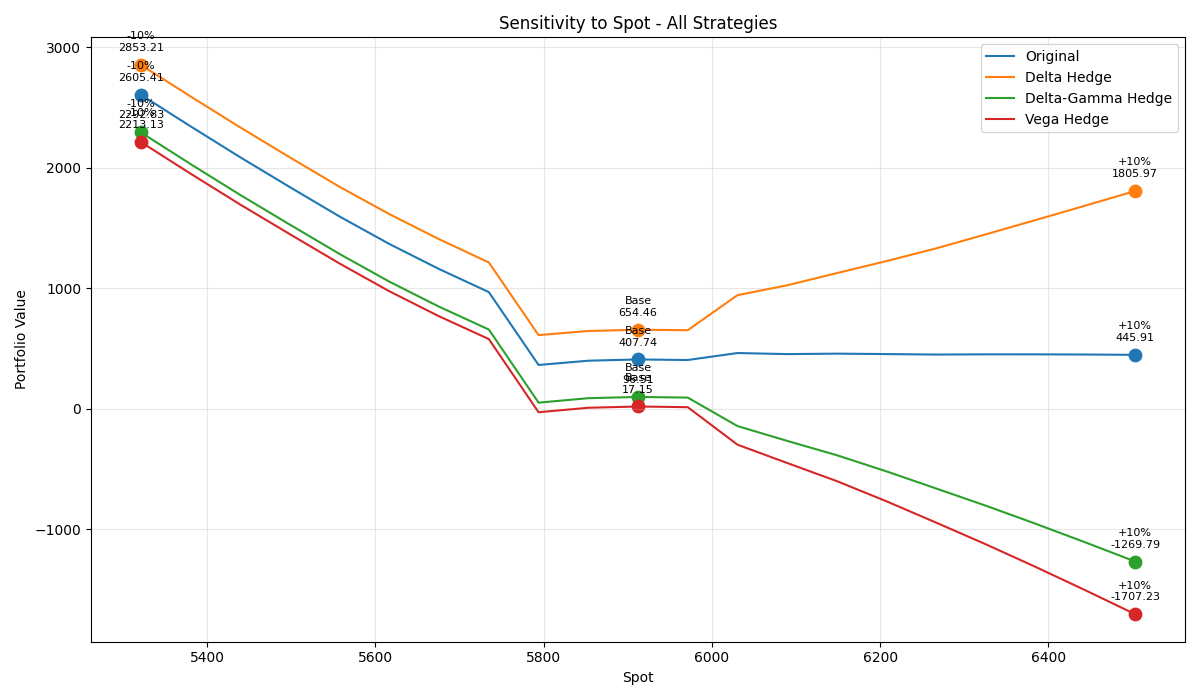
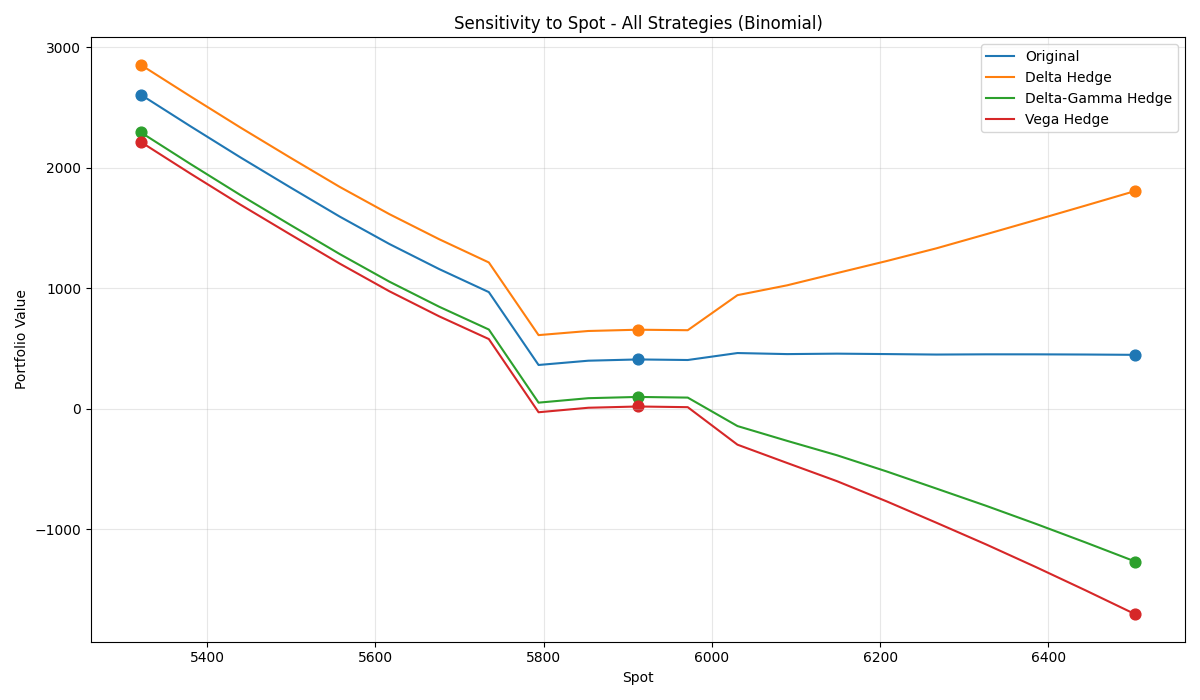
test

diff --git a/option_pricing/binomial_model/binomial_portfolio_analysis.py b/option_pricing/binomial_model/binomial_portfolio_analysis.py
@@ -185,6 +185,8 @@ def run_sensitivity_analysis_binomial(portfolio, N, vis_dir):
     spot_idx_base = 10
     spot_idx_high = 20
     plt.figure(figsize=(12,7))
+    plt.style.use('default')
+    plt.rcParams.update({'font.size': 10})
     spot_rows = []
     for name, port in hedge_strategies:
         values = []
@@ -194,6 +196,9 @@ def run_sensitivity_analysis_binomial(portfolio, N, vis_dir):
                 opt['S'] = S
             values.append(portfolio_value(port_mod, N))
         plt.plot(spot_range, values, label=name)
+        plt.scatter([spot_range[spot_idx_low], spot_range[spot_idx_base], spot_range[spot_idx_high]],
+                    [values[spot_idx_low], values[spot_idx_base], values[spot_idx_high]],
+                    marker='o', s=60)
         base = values[spot_idx_base]
         low = values[spot_idx_low]
         high = values[spot_idx_high]
@@ -211,7 +216,7 @@ def run_sensitivity_analysis_binomial(portfolio, N, vis_dir):
     df_spot.to_csv(os.path.join(vis_dir, 'sensitivity_spot_all.csv'), index=False)
     plt.xlabel('Spot')
     plt.ylabel('Portfolio Value')
-    plt.title('Sensitivity to Spot - All Strategies')
+    plt.title('Sensitivity to Spot - All Strategies (Binomial)')
     plt.legend()
     plt.grid(True, alpha=0.3)
     plt.tight_layout()
@@ -224,6 +229,8 @@ def run_sensitivity_analysis_binomial(portfolio, N, vis_dir):
     r_idx_base = 10
     r_idx_high = 20
     plt.figure(figsize=(12,7))
+    plt.style.use('default')
+    plt.rcParams.update({'font.size': 10})
     r_rows = []
     for name, port in hedge_strategies:
         values = []
@@ -233,6 +240,9 @@ def run_sensitivity_analysis_binomial(portfolio, N, vis_dir):
                 opt['r'] = r
             values.append(portfolio_value(port_mod, N))
         plt.plot(r_range, values, label=name)
+        plt.scatter([r_range[r_idx_low], r_range[r_idx_base], r_range[r_idx_high]],
+                    [values[r_idx_low], values[r_idx_base], values[r_idx_high]],
+                    marker='o', s=60)
         base = values[r_idx_base]
         low = values[r_idx_low]
         high = values[r_idx_high]
@@ -250,7 +260,7 @@ def run_sensitivity_analysis_binomial(portfolio, N, vis_dir):
     df_r.to_csv(os.path.join(vis_dir, 'sensitivity_r_all.csv'), index=False)
     plt.xlabel('Risk-free rate (r)')
     plt.ylabel('Portfolio Value')
-    plt.title('Sensitivity to r - All Strategies')
+    plt.title('Sensitivity to r - All Strategies (Binomial)')
     plt.legend()
     plt.grid(True, alpha=0.3)
     plt.tight_layout()
@@ -258,6 +268,8 @@ def run_sensitivity_analysis_binomial(portfolio, N, vis_dir):
     plt.close()
     # 3. Sensibilidad volatilidad (±20%)
     plt.figure(figsize=(12,7))
+    plt.style.use('default')
+    plt.rcParams.update({'font.size': 10})
     vol_base = 1.0
     vol_range = np.linspace(0.8, 1.2, 21)
     vol_idx_low = 0
@@ -269,12 +281,15 @@ def run_sensitivity_analysis_binomial(portfolio, N, vis_dir):
         for vol_mult in vol_range:
             port_mod = copy.deepcopy(port)
             for opt in port_mod:
-                iv = price_option(opt, N)[1]
+                iv = implied_volatility_option(opt['market_price'], opt['S'], opt['K'], opt['T'], opt['r'], opt['type'])
                 if iv is None:
                     iv = 0.2
                 opt['market_price'] = black_scholes_call_price(opt['S'], opt['K'], opt['T'], opt['r'], iv*vol_mult) if opt['type']=='call' else black_scholes_put_price(opt['S'], opt['K'], opt['T'], opt['r'], iv*vol_mult)
             values.append(portfolio_value(port_mod, N))
         plt.plot(vol_range, values, label=name)
+        plt.scatter([vol_range[vol_idx_low], vol_range[vol_idx_base], vol_range[vol_idx_high]],
+                    [values[vol_idx_low], values[vol_idx_base], values[vol_idx_high]],
+                    marker='o', s=60)
         base = values[vol_idx_base]
         low = values[vol_idx_low]
         high = values[vol_idx_high]
@@ -292,7 +307,7 @@ def run_sensitivity_analysis_binomial(portfolio, N, vis_dir):
     df_vol.to_csv(os.path.join(vis_dir, 'sensitivity_vol_all.csv'), index=False)
     plt.xlabel('Volatility multiplier')
     plt.ylabel('Portfolio Value')
-    plt.title('Sensitivity to Volatility - All Strategies')
+    plt.title('Sensitivity to Volatility - All Strategies (Binomial)')
     plt.legend()
     plt.grid(True, alpha=0.3)
     plt.tight_layout()
@@ -564,6 +579,8 @@ if __name__ == "__main__":
     spot_idx_base = 10
     spot_idx_high = 20
     plt.figure(figsize=(12,7))
+    plt.style.use('default')
+    plt.rcParams.update({'font.size': 10})
     print("\n=== Spot Sensitivity (±10%) ===")
     print(f"{'Strategy':<20}{'Base':>12}{'-10%':>12}{'+10%':>12}{'Δ-10%':>12}{'Δ+10%':>12}")
     spot_rows = []
@@ -577,9 +594,7 @@ if __name__ == "__main__":
         plt.plot(spot_range, values, label=name)
         plt.scatter([spot_range[spot_idx_low], spot_range[spot_idx_base], spot_range[spot_idx_high]],
                     [values[spot_idx_low], values[spot_idx_base], values[spot_idx_high]],
-                    marker='o', s=80)
-        for idx, label in zip([spot_idx_low, spot_idx_base, spot_idx_high], ['-10%', 'Base', '+10%']):
-            plt.annotate(f"{label}\n{values[idx]:.2f}", (spot_range[idx], values[idx]), textcoords="offset points", xytext=(0,10), ha='center', fontsize=8)
+                    marker='o', s=60)
         base = values[spot_idx_base]
         low = values[spot_idx_low]
         high = values[spot_idx_high]
@@ -598,7 +613,7 @@ if __name__ == "__main__":
     df_spot.to_csv(os.path.join(VIS_DIR, 'sensitivity_spot_all.csv'), index=False)
     plt.xlabel('Spot')
     plt.ylabel('Portfolio Value')
-    plt.title('Sensitivity to Spot - All Strategies')
+    plt.title('Sensitivity to Spot - All Strategies (Binomial)')
     plt.legend()
     plt.grid(True, alpha=0.3)
     plt.tight_layout()
@@ -612,6 +627,8 @@ if __name__ == "__main__":
     r_idx_base = 10
     r_idx_high = 20
     plt.figure(figsize=(12,7))
+    plt.style.use('default')
+    plt.rcParams.update({'font.size': 10})
     print("\n=== r Sensitivity (±1%) ===")
     print(f"{'Strategy':<20}{'Base':>12}{'-1%':>12}{'+1%':>12}{'Δ-1%':>12}{'Δ+1%':>12}")
     r_rows = []
@@ -625,9 +642,7 @@ if __name__ == "__main__":
         plt.plot(r_range, values, label=name)
         plt.scatter([r_range[r_idx_low], r_range[r_idx_base], r_range[r_idx_high]],
                     [values[r_idx_low], values[r_idx_base], values[r_idx_high]],
-                    marker='o', s=80)
-        for idx, label in zip([r_idx_low, r_idx_base, r_idx_high], ['-1%', 'Base', '+1%']):
-            plt.annotate(f"{label}\n{values[idx]:.2f}", (r_range[idx], values[idx]), textcoords="offset points", xytext=(0,10), ha='center', fontsize=8)
+                    marker='o', s=60)
         base = values[r_idx_base]
         low = values[r_idx_low]
         high = values[r_idx_high]
@@ -646,7 +661,7 @@ if __name__ == "__main__":
     df_r.to_csv(os.path.join(VIS_DIR, 'sensitivity_r_all.csv'), index=False)
     plt.xlabel('Risk-free rate (r)')
     plt.ylabel('Portfolio Value')
-    plt.title('Sensitivity to r - All Strategies')
+    plt.title('Sensitivity to r - All Strategies (Binomial)')
     plt.legend()
     plt.grid(True, alpha=0.3)
     plt.tight_layout()
@@ -655,6 +670,8 @@ if __name__ == "__main__":
 
     # 3. Sensibilidad volatilidad (±20%)
     plt.figure(figsize=(12,7))
+    plt.style.use('default')
+    plt.rcParams.update({'font.size': 10})
     vol_base = 1.0
     vol_range = np.linspace(0.8, 1.2, 21)  # multiplicador de la volatilidad implícita
     vol_idx_low = 0
@@ -676,9 +693,7 @@ if __name__ == "__main__":
         plt.plot(vol_range, values, label=name)
         plt.scatter([vol_range[vol_idx_low], vol_range[vol_idx_base], vol_range[vol_idx_high]],
                     [values[vol_idx_low], values[vol_idx_base], values[vol_idx_high]],
-                    marker='o', s=80)
-        for idx, label in zip([vol_idx_low, vol_idx_base, vol_idx_high], ['-20%', 'Base', '+20%']):
-            plt.annotate(f"{label}\n{values[idx]:.2f}", (vol_range[idx], values[idx]), textcoords="offset points", xytext=(0,10), ha='center', fontsize=8)
+                    marker='o', s=60)
         base = values[vol_idx_base]
         low = values[vol_idx_low]
         high = values[vol_idx_high]
@@ -697,7 +712,7 @@ if __name__ == "__main__":
     df_vol.to_csv(os.path.join(VIS_DIR, 'sensitivity_vol_all.csv'), index=False)
     plt.xlabel('Volatility multiplier')
     plt.ylabel('Portfolio Value')
-    plt.title('Sensitivity to Volatility - All Strategies')
+    plt.title('Sensitivity to Volatility - All Strategies (Binomial)')
     plt.legend()
     plt.grid(True, alpha=0.3)
     plt.tight_layout()

diff --git a/option_pricing/black_scholes_model/bs_portfolio_analysis.py b/option_pricing/black_scholes_model/bs_portfolio_analysis.py
@@ -168,6 +168,8 @@ def run_sensitivity_analysis_bs(portfolio, vis_dir):
     spot_idx_base = 10
     spot_idx_high = 20
     plt.figure(figsize=(12,7))
+    plt.style.use('default')
+    plt.rcParams.update({'font.size': 10})
     spot_rows = []
     for name, port in hedge_strategies:
         values = []
@@ -190,6 +192,9 @@ def run_sensitivity_analysis_bs(portfolio, vis_dir):
             'Δ-10%': dlow,
             'Δ+10%': dhigh
         })
+        plt.scatter([spot_range[spot_idx_low], spot_range[spot_idx_base], spot_range[spot_idx_high]],
+                    [values[spot_idx_low], values[spot_idx_base], values[spot_idx_high]],
+                    marker='o', s=60)
     df_spot = pd.DataFrame(spot_rows)
     df_spot.to_csv(os.path.join(vis_dir, 'sensitivity_spot_all_bs.csv'), index=False)
     plt.xlabel('Spot')
@@ -207,6 +212,8 @@ def run_sensitivity_analysis_bs(portfolio, vis_dir):
     r_idx_base = 10
     r_idx_high = 20
     plt.figure(figsize=(12,7))
+    plt.style.use('default')
+    plt.rcParams.update({'font.size': 10})
     r_rows = []
     for name, port in hedge_strategies:
         values = []
@@ -229,6 +236,9 @@ def run_sensitivity_analysis_bs(portfolio, vis_dir):
             'Δ-1%': dlow,
             'Δ+1%': dhigh
         })
+        plt.scatter([r_range[r_idx_low], r_range[r_idx_base], r_range[r_idx_high]],
+                    [values[r_idx_low], values[r_idx_base], values[r_idx_high]],
+                    marker='o', s=60)
     df_r = pd.DataFrame(r_rows)
     df_r.to_csv(os.path.join(vis_dir, 'sensitivity_r_all_bs.csv'), index=False)
     plt.xlabel('Risk-free rate (r)')
@@ -241,6 +251,8 @@ def run_sensitivity_analysis_bs(portfolio, vis_dir):
     plt.close()
     # 3. Sensibilidad volatilidad (±20%)
     plt.figure(figsize=(12,7))
+    plt.style.use('default')
+    plt.rcParams.update({'font.size': 10})
     vol_base = 1.0
     vol_range = np.linspace(0.8, 1.2, 21)
     vol_idx_low = 0
@@ -275,6 +287,9 @@ def run_sensitivity_analysis_bs(portfolio, vis_dir):
             'Δ-20%': dlow,
             'Δ+20%': dhigh
         })
+        plt.scatter([vol_range[vol_idx_low], vol_range[vol_idx_base], vol_range[vol_idx_high]],
+                    [values[vol_idx_low], values[vol_idx_base], values[vol_idx_high]],
+                    marker='o', s=60)
     df_vol = pd.DataFrame(vol_rows)
     df_vol.to_csv(os.path.join(vis_dir, 'sensitivity_vol_all_bs.csv'), index=False)
     plt.xlabel('Volatility multiplier')
@@ -302,7 +317,7 @@ if __name__ == "__main__":
     # --- Definición de la cartera ---
     portfolio = [
         {'type': 'call', 'style': 'european', 'S': 5912.17, 'K': 5915, 'T': 0.0849, 'r': 0.0421, 'qty': -10, 'market_price': 111.93},
-        {'type': 'put',  'style': 'american', 'S': 5912.17, 'K': 5910, 'T': 0.0849, 'r': 0.0421, 'qty': -5,  'market_price': 106.89},
+        {'type': 'put',  'style': 'european', 'S': 5912.17, 'K': 5910, 'T': 0.0849, 'r': 0.0421, 'qty': -5,  'market_price': 106.89},
         {'type': 'call', 'style': 'european', 'S': 5912.17, 'K': 5920, 'T': 0.0849, 'r': 0.0421, 'qty': 10,   'market_price': 103.66},
         {'type': 'put', 'style': 'european', 'S': 5912.17, 'K': 5900, 'T': 0.0849, 'r': 0.0421, 'qty': 10,   'market_price': 102.92},
     ]
